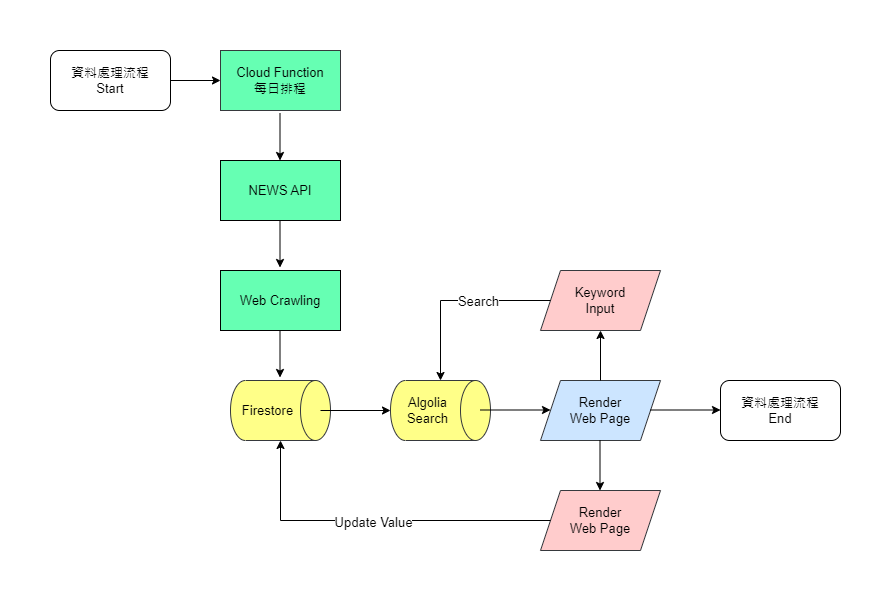
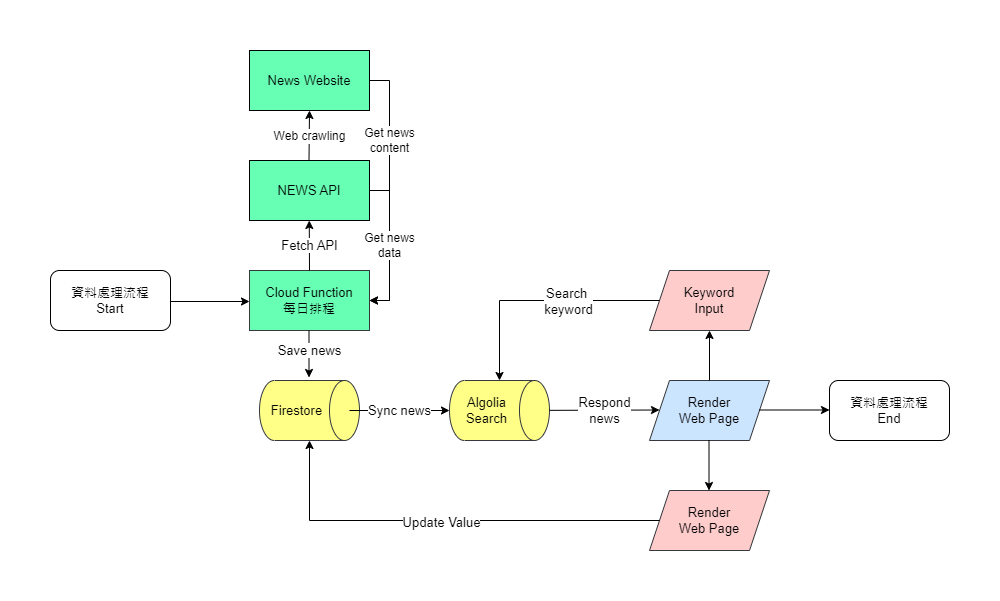
Modified FunctionMap & FlowChart img

diff --git a/README.md b/README.md
@@ -1,9 +1,9 @@
 # News Timeline
-[URL](https://newstimeline-62758.web.app/)
+[Website Link](https://newstimeline-62758.web.app/)
 
-#### Test Account : mario@gmail.com
+#### Test Account : guest@test.com
 #### Test password : 1111111
-#### Test DisplayName : mario
+#### Test DisplayName : guest
 
 ## Description
 By displaying news on a horizontal timeline, this website tries to faithfully present the development
@@ -15,7 +15,7 @@ time at a glance.
 ### Fundamentals
 - HTML
 - CSS
-- JavaScript(ES6+)
+- JavaScript (ES6+)
 - TypeScript
 - Node.js
 
@@ -26,22 +26,22 @@ time at a glance.
 - Create React App
 - Lodash Debounce
 
-### Firebase
+### Cloud Service 
 - Firestore
 - Hosting
 - Cloud Functions
 - Authentication
-
-### Networking
-- HTTP / HTTPS
-- AJAX
+- Algolia
 
 ### Others
 - ESLint
 
 ## Function Map
 <p align="center">
-  <img src="./src/img/FunctionMap.png" alt="Flow Chart"/>
+  <img src="./src/img/functionMap(view).png" alt="Function Map(View)"/>
+</p>
+<p align="center">
+  <img src="./src/img/functionMap(function).png" alt="Function Map(Function)"/>
 </p>
 
 ## Flow Chart
@@ -55,17 +55,17 @@ time at a glance.
   <img src="./src/img/readMe03.png" alt="Horizontal Infinite Scroll"/>
 </p>
 
-- Scheduled a cloud function to fetch News API and web crawling news content everyday.
-- Implemented web crawling by Node.js and Readability.
 
-- Enabled news articles’ full text search of the website with Algolia search engine.
-- Categorized news and can send search requests based on each category.
 - Fulfilled the function to remember user’s five recent search keywords in search bar.
 - Provided a saved keywords feature for member to save their favorite keywords.
-- Optimized search performance by using the debounce function.
 
 <p align="center">
-  <img src="./src/img/readMe01.png" alt="Search Function"/>
+  <img src="./src/img/readMe04.png" alt="Search Function"/>
+</p>
+
+- Categorized news and can send search requests based on each category.
+<p align="center">
+  <img src="./src/img/readMe05.png" alt="Search Function"/>
 </p>
 
 - Monitored the total number of clicks of each news to rank popular news in Hot News page.
@@ -76,9 +76,11 @@ time at a glance.
 
 - Provided a saved news feature for member to store their favorite news.
 
+<p align="center">
+  <img src="./src/img/readMe06.png" alt="HotNews page"/>
+</p>
 
-
-
-- Implemented member management by using Firebase Authentication.
-- Built SPA website by react, create-react-app, and react-router.
 - Used Styled-Components to build UI and RWD of the website.
+<p align="center" width="100%">
+<img src="./src/img/readMe07.png"  width="30%" height="100%" alt="RWD1"/>&nbsp;&nbsp;<img src="./src/img/readMe08.png"  width="30%" height="100%" alt="RWD2"/>&nbsp;&nbsp;<img src="./src/img/readMe09.png"  width="30%" height="100%" alt="RWD3"/>
+</p>
